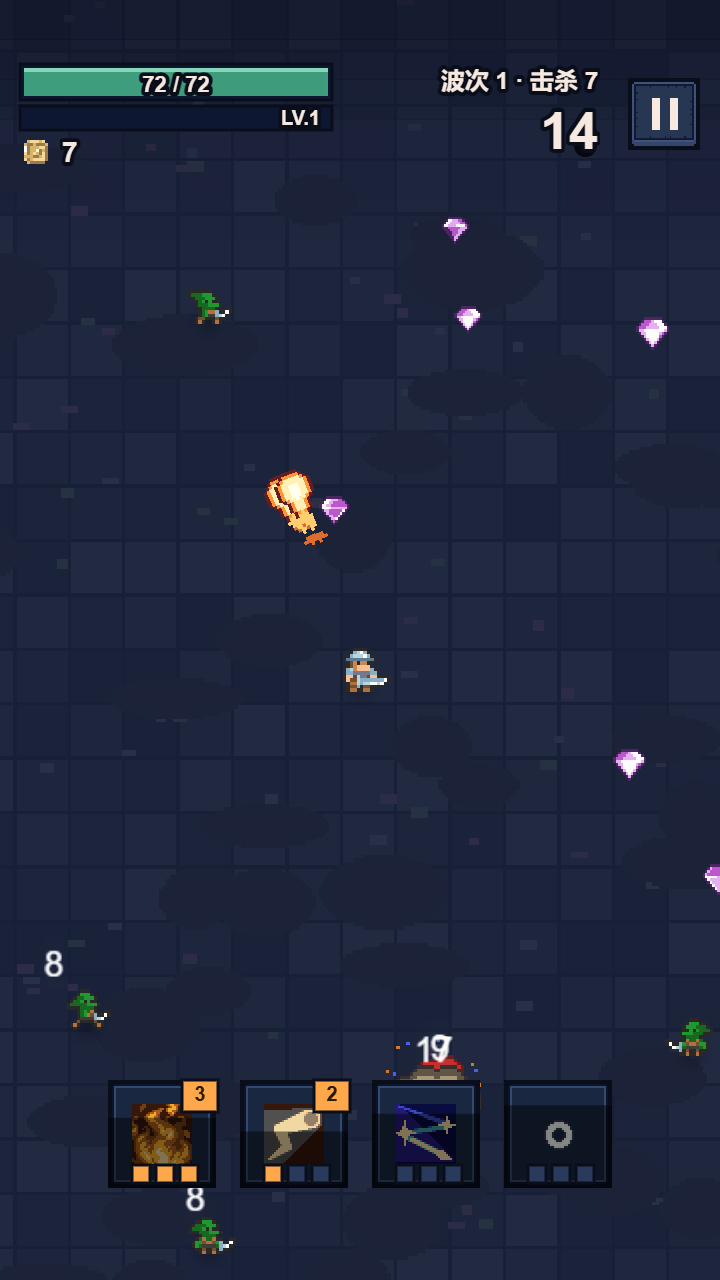
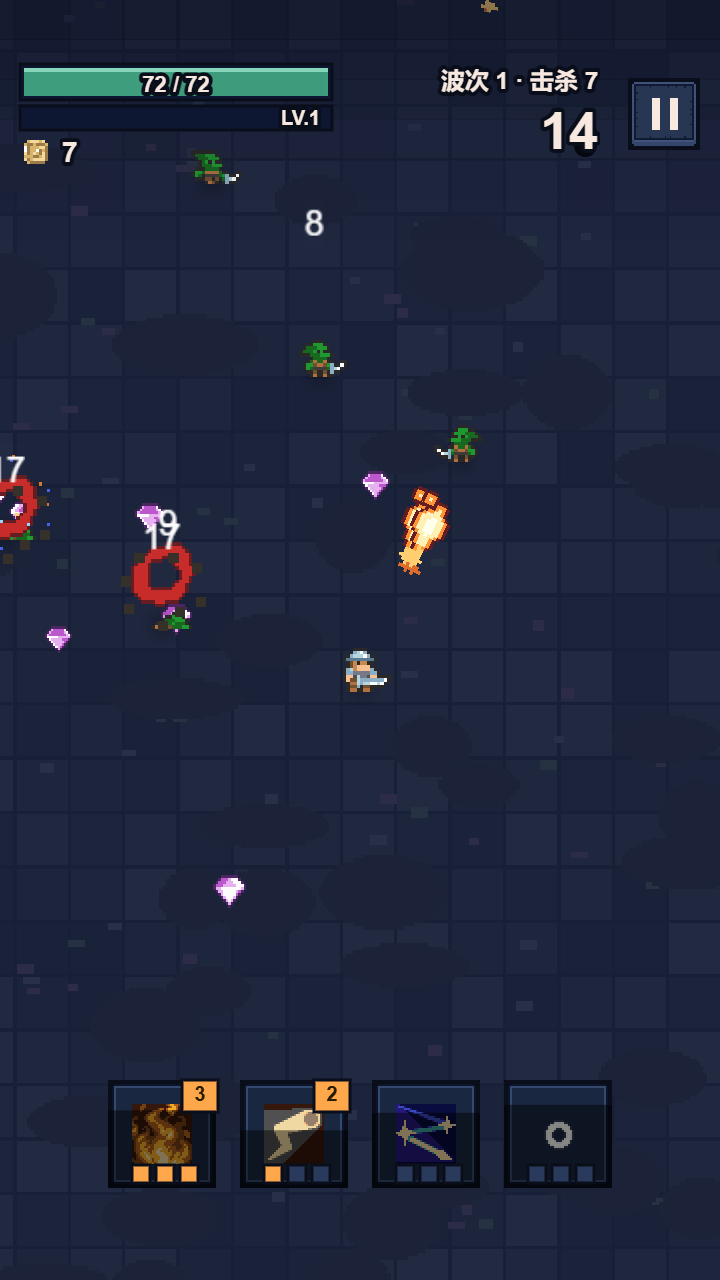
HUD：残血红框改成柔和外发光（用户反馈"不要太红"）
- 去掉 2px 红框，改为血条**下方**的 6 层低透明度圆角矩形（外扩 5.4→17.4px，alpha 24→10，
  颜色 rgb(198,92,112) 偏灰暗红）—— 等效于柔和阴影/泛光，纯像素不用模糊
- 血量文字 #E04060 → #F07680（珊瑚红，不刺眼）
- 修一个渲染顺序坑：发光层必须建在血条**之前**，否则会盖住填充把血条糊成灰块
- 三档视口截图已重拍

diff --git a/docs/ui-redesign/ui_visual_m2.md b/docs/ui-redesign/ui_visual_m2.md
@@ -32,7 +32,7 @@
 | BOSS 血条 | 居中 y≈S+114，与暂停键重叠 | 名字 S+64 / 血条 S+80，宽 336 | 与暂停键、波次信息彻底错开 |
 | 金币 | 15px 数字 | **14px + 16 图标成组** | 更像"资源标签"而不是漂浮数字 |
 | 经验条 | 156×14 | **156×12** | 与 HP 拉开层级 |
-| 残血态 | 无 | **<25% 红字 + 红框** | 危险必须有颜色+边框双通道，且不闪烁 |
+| 残血态 | 无 | **<25% 珊瑚红字 + 柔和外发光**（用户反馈：红框太"框"，改泛光） | 危险要看得出来，但不要硬边框、不要过饱和；静态不闪烁 |
 | 冷却遮罩 | alpha 140 | **alpha 120** | 冷却中仍能辨认是哪个技能 |
 
 ---
@@ -49,6 +49,16 @@
 > 说明：旧基线截图里只有 1 个技能，新图是"4 技能 + 残血 + BOSS"的复合态，对比时请看布局与信息层级，不要逐像素比内容。
 
 ---
+
+## 3.5 残血态：红框 → 柔和外发光（用户 2026-10-29 反馈）
+
+- **做法**：血条**下面**垫 6 层低透明度圆角矩形（半径逐层外扩 5.4→17.4px，alpha 24→10，
+  颜色 `rgb(198,92,112)` 偏灰的暗红），等价于"柔和阴影/泛光"，纯像素绘制、不用模糊。
+- **两个坑**：
+  1. 发光层如果建在血条**之后**，会盖在血条上把它糊成灰块 → 必须建在血条**之前**（渲染顺序）；
+  2. 不要在内侧再叠暖光层，否则填充色被冲淡。
+- 文字颜色同步从 `#E04060` 换成 `#F07680`（珊瑚红，不刺眼）。
+- 可调参数集中在 `Hud.sync()` 的 `pad / alpha / color` 三处；截图见 `m2/360x640-hud-lowhp-boss.png`。
 
 ## 4. 未验证 / 风险
 
